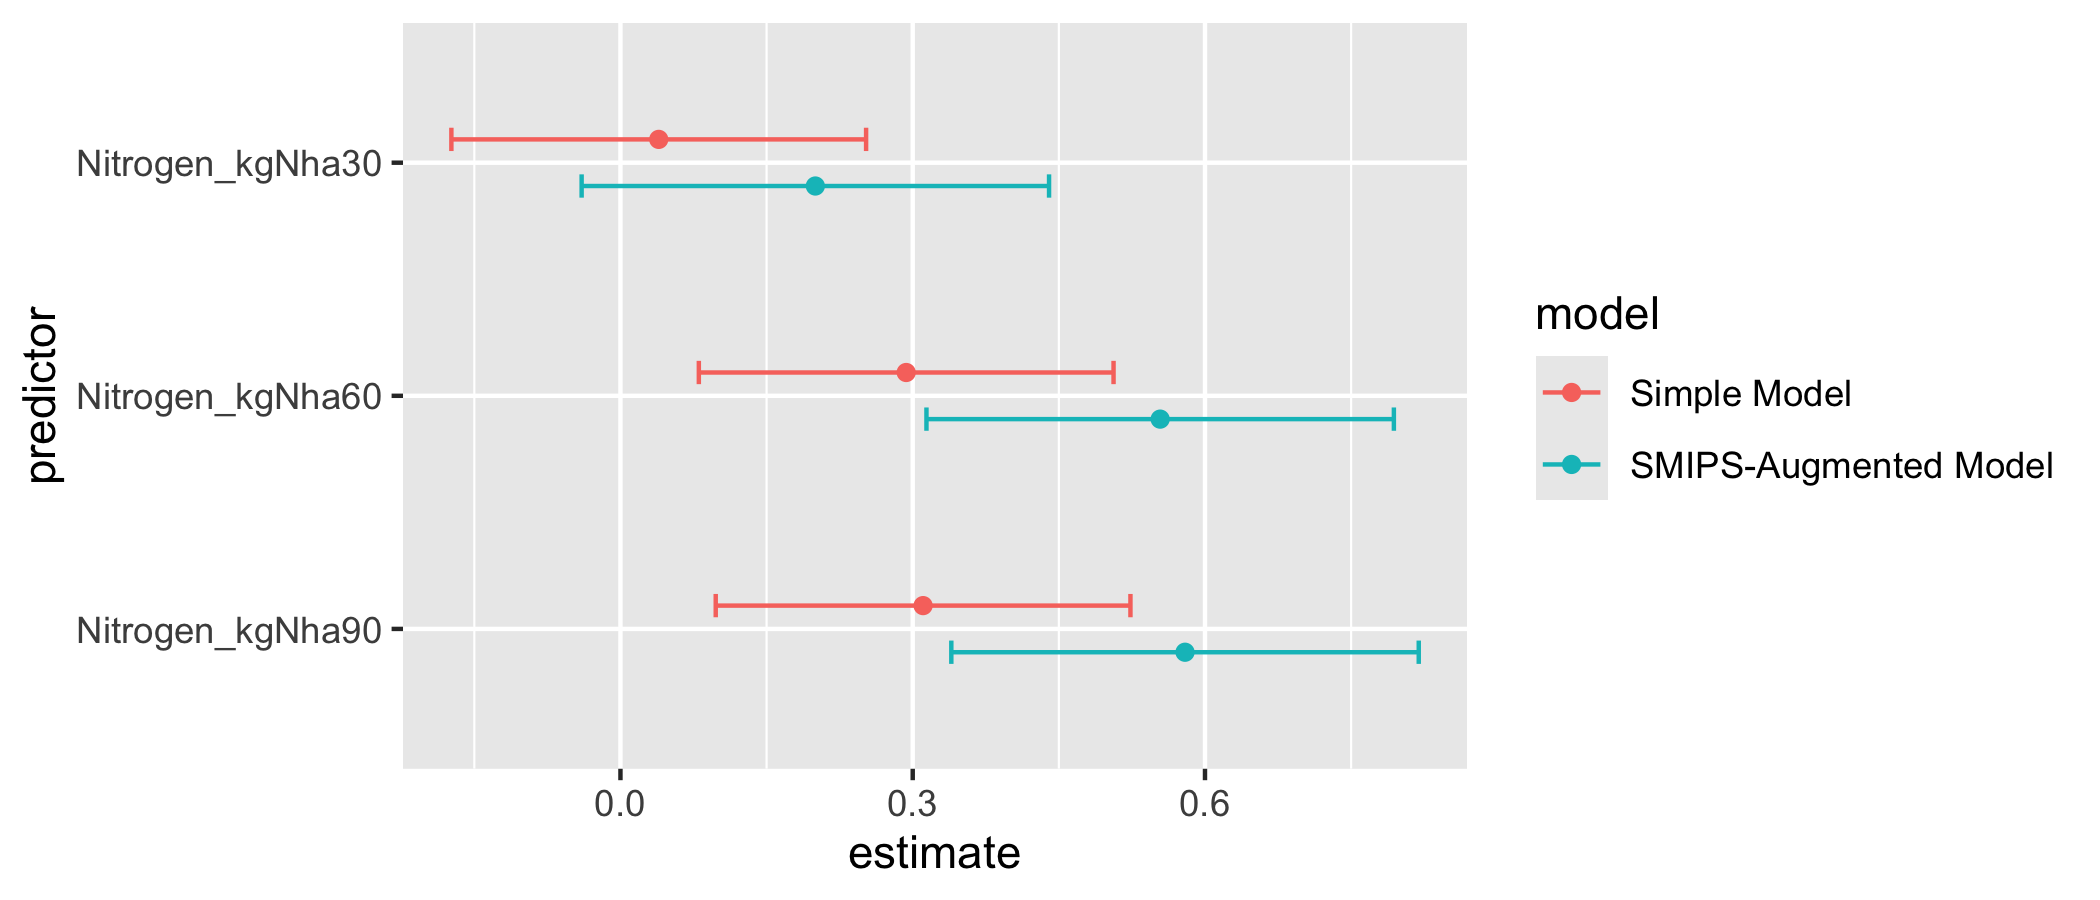
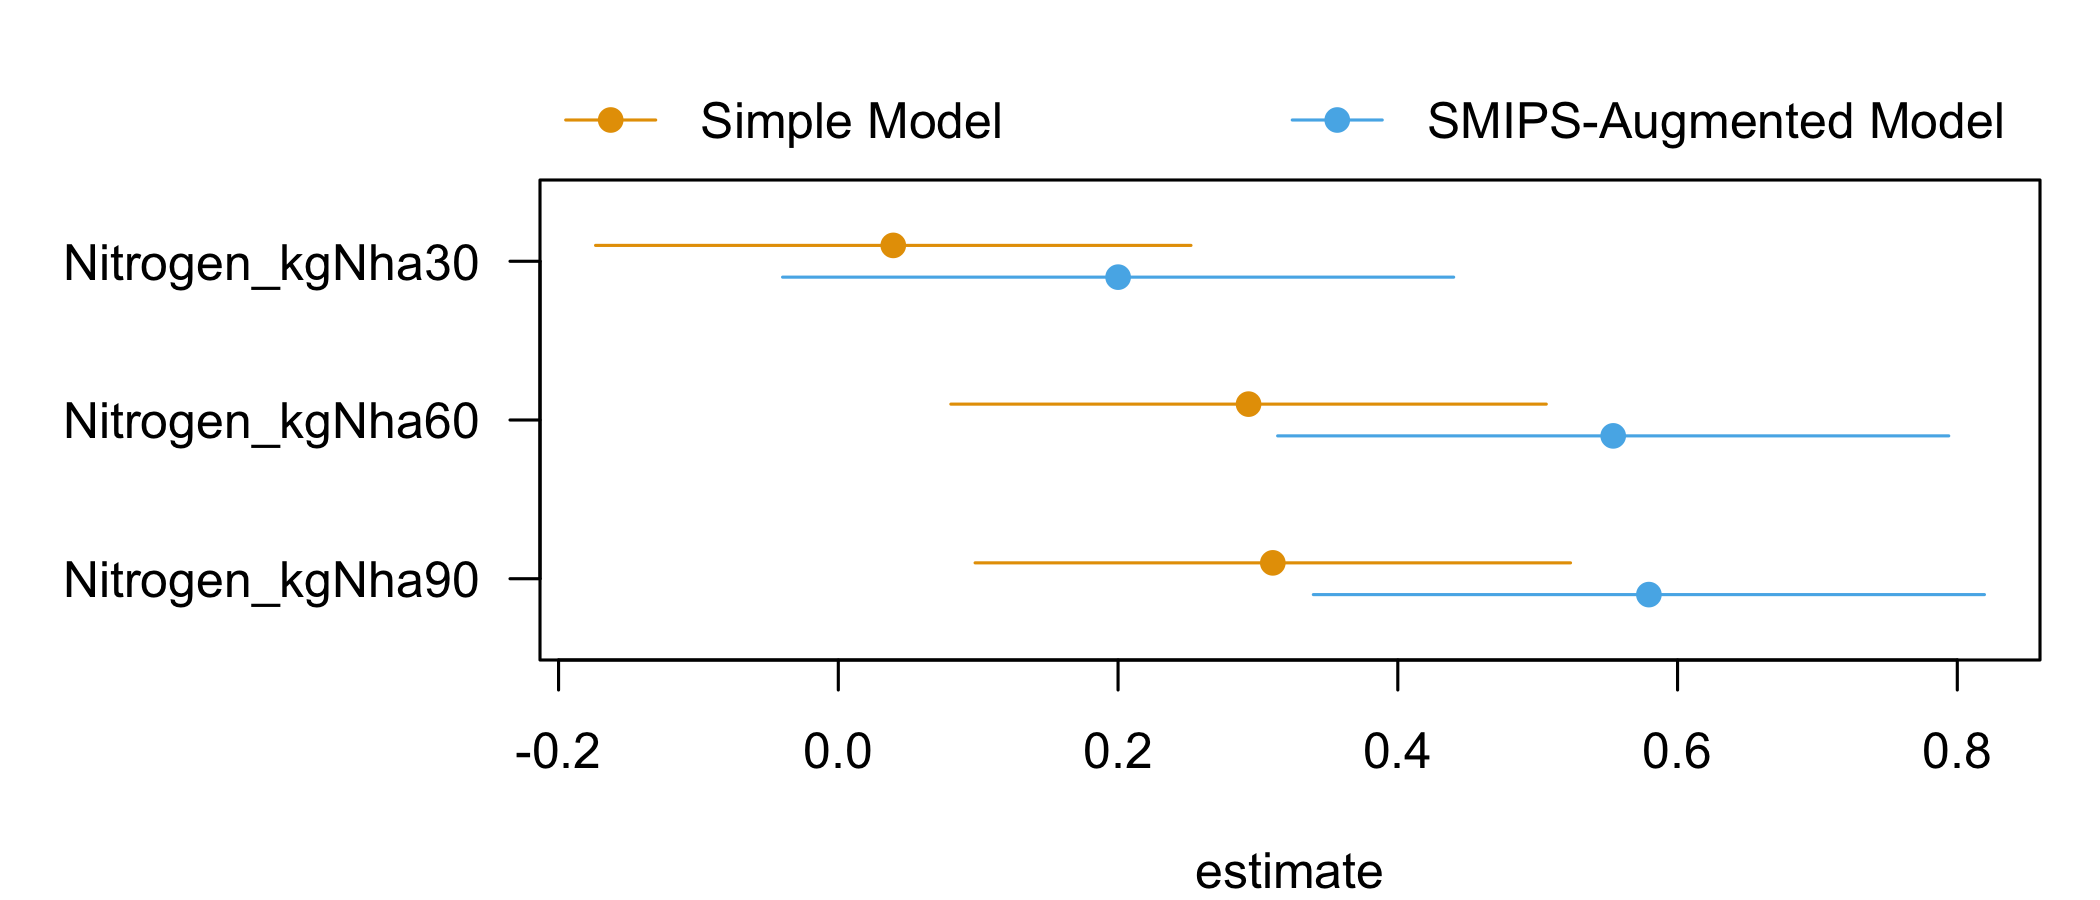
docs: draw the vignette's interval plot with base graphics and drop ggplot2 from Suggests

diff --git a/NEWS.md b/NEWS.md
@@ -4,8 +4,8 @@
   README and vignettes now plot with `plot()` from terra. Code that called
   `autoplot()` can use `tidyterra::autoplot()` instead.
 
-- nert now requires R 4.1.0 or later, the oldest version on which ggplot2 and
-  testthat install.
+- nert now requires R 4.1.0 or later, the oldest version on which testthat
+  installs.
 
 - Retries are handled by GDAL through `GDAL_HTTP_MAX_RETRY` and
   `GDAL_HTTP_RETRY_DELAY`, set from `max_tries` and `initial_delay`. GDAL
